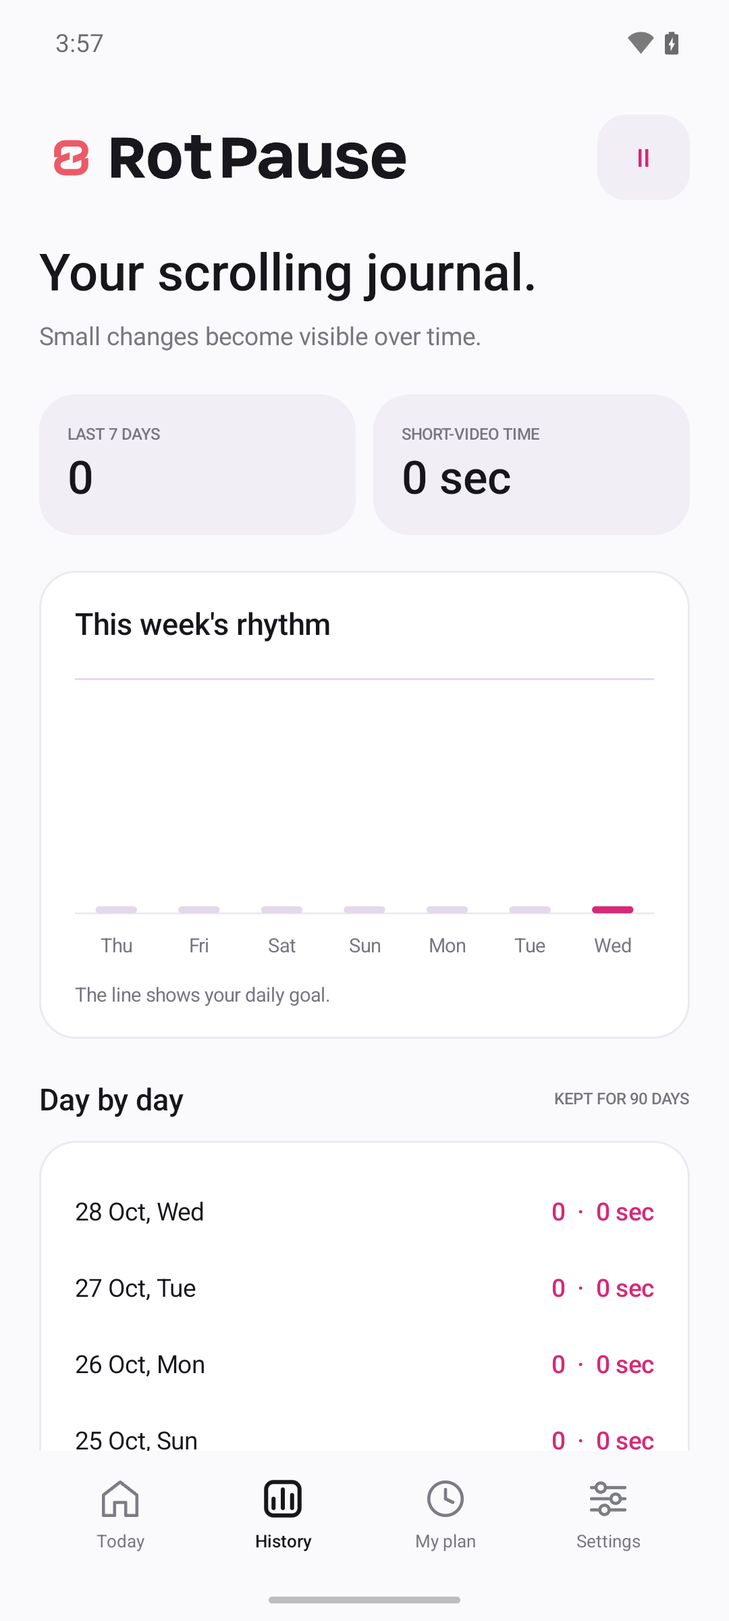
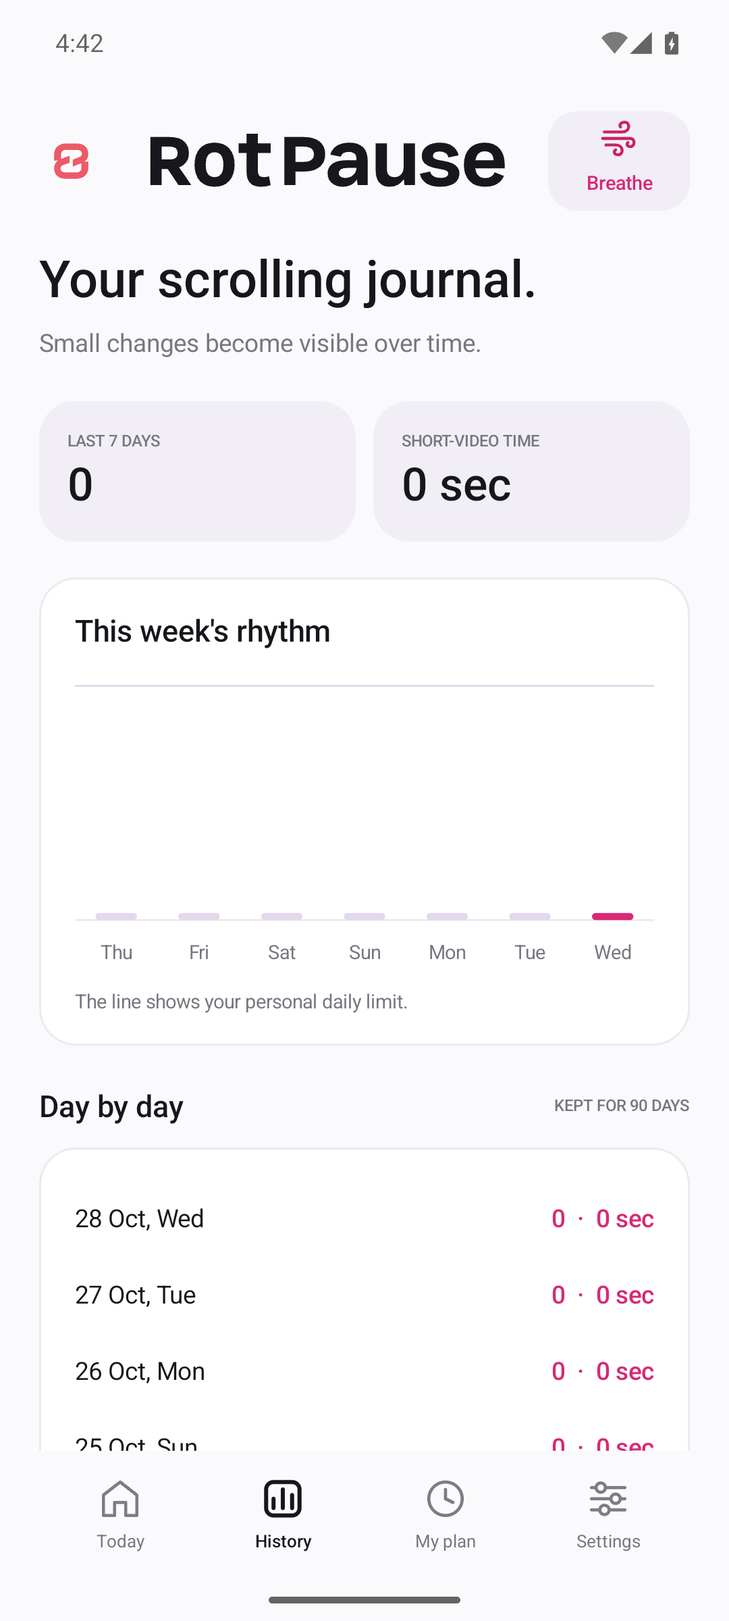
Clarify RotPause counting, watch privacy and breathing safety

diff --git a/rotpause/index.html b/rotpause/index.html
@@ -2,14 +2,14 @@
 <html lang="en">
 <head><meta charset="utf-8"><meta name="viewport" content="width=device-width,initial-scale=1">
 <title>RotPause — Catch the scroll. Pause the rot.</title>
-<meta name="description" content="An on-device Android short-video counter with gentle prompts, daily goals and room to breathe. RotPause is currently a release preview.">
+<meta name="description" content="An on-device Android short-video counter with gentle prompts, personal daily limits and room to breathe. RotPause is currently a release preview.">
 <meta name="theme-color" content="#fafafc">
 <style>
 :root{color-scheme:light;--ink:#16161b;--muted:#61616c;--pink:#d62976;--pale:#f1eef6}*{box-sizing:border-box}body{margin:0;background:#fafafc;color:var(--ink);font:17px/1.65 system-ui,sans-serif}a{color:#a5195d;text-underline-offset:4px}a:focus-visible{outline:3px solid #4f5bd5;outline-offset:5px}nav,main,footer{max-width:1160px;margin:auto;padding:24px}nav{display:flex;align-items:center;justify-content:space-between;gap:20px}.brand img{display:block;width:188px;height:auto}.brand{font-size:30px;font-weight:800;letter-spacing:-1.5px;text-decoration:none;color:var(--ink)}nav .links{display:flex;gap:24px;font-size:14px}.hero{display:grid;grid-template-columns:1.2fr 1fr;align-items:center;gap:64px;padding:44px 0 70px}.eyebrow{font-size:12px;letter-spacing:2px;text-transform:uppercase;font-weight:700;color:#9a2460}.icon{width:70px;height:70px;border-radius:18px}h1{font-size:clamp(48px,6vw,80px);letter-spacing:-.065em;line-height:1.02;margin:22px 0}h2{font-size:32px;line-height:1.15;letter-spacing:-.035em}h3{font-size:21px;line-height:1.25}.lead{font-size:21px;color:var(--muted);max-width:530px}.pill{display:inline-block;background:var(--pale);border-radius:30px;padding:9px 15px;font-size:13px;font-weight:650}.hero .note{font-size:14px;max-width:480px;color:var(--muted)}.phone{width:100%;height:auto;max-width:320px;border:9px solid #16161b;border-radius:40px;display:block;margin:auto;box-shadow:0 24px 70px #4f2b6c20}.scene{padding:24px;background:linear-gradient(135deg,#fa7e1e14,#d629761b,#4f5bd51b);border-radius:48px}.grid{display:grid;grid-template-columns:repeat(3,1fr);gap:18px}.card{background:white;border:1px solid #e6e4eb;border-radius:24px;padding:26px}.card p{font-size:16px;color:var(--muted)}.line{height:5px;width:44px;border-radius:5px;background:linear-gradient(90deg,#fa7e1e,#d62976,#4f5bd5)}section{padding:35px 0}.plain{max-width:810px}.plain p{color:var(--muted)}details{border-bottom:1px solid #dedde5;padding:20px 0}summary{font-weight:650;cursor:pointer}details p{font-size:16px}footer{border-top:1px solid #e1dfe8;margin-top:30px;padding-top:28px;padding-bottom:40px;font-size:14px;color:var(--muted)}footer a{margin-right:18px}footer p{margin:12px 0}@media(max-width:760px){nav .links{gap:14px}.hero{grid-template-columns:1fr;gap:30px;padding-top:28px}.grid{grid-template-columns:1fr}.scene{max-width:380px;width:100%;margin:auto}h1{font-size:56px}.lead{font-size:19px}nav,main,footer{padding-left:22px;padding-right:22px}}
 </style></head>
 <body><nav aria-label="Main"><a class="brand" href="./"><img src="lockup.svg" width="188" height="35" alt="RotPause"></a><div class="links"><a href="support/">Support</a><a href="privacy/">Privacy</a></div></nav>
-<main><div class="hero"><div><img class="icon" src="icon.png" alt="RotPause interrupted-loop icon" width="70" height="70"><p class="eyebrow">A little more life.</p><h1>Catch the scroll.<br>Pause the rot.</h1><p class="lead">Notice how many short videos pass by. Set your own rhythm, take a breath, and leave a little room for life beyond the screen.</p><span class="pill">Android · Release preview</span><p class="note">Planned price: US$1, paid once. No ads, subscriptions or in-app purchases. RotPause has not launched on Google Play yet; final local prices will appear in the store.</p><p><a href="support/">Get help with the preview →</a></p></div><div class="scene"><img class="phone" src="today.png" alt="Actual RotPause Today screen showing the daily short-video goal and optional counter setup" width="1080" height="2340"></div></div>
-<section aria-labelledby="features"><p class="eyebrow">Small signals. Your choices.</p><h2 id="features">A calmer way to notice.</h2><div class="grid"><article class="card"><div class="line"></div><h3>See your rhythm.</h3><p>Videos count after 0.75 seconds of stable detected visibility, with rapid skips excluded. Daily totals and a seven-day view help you see the pattern.</p></article><article class="card"><div class="line"></div><h3>Choose your pause.</h3><p>Set a daily goal. Use an optional live counter, dismissible prompts or a two-minute breathing break.</p></article><article class="card"><div class="line"></div><h3>Keep it close.</h3><p>Usage history and settings stay on your device. The Android app requests no internet permission.</p></article></div></section>
-<section class="plain" aria-labelledby="compat"><h2 id="compat">Built around short-video screens.</h2><p>The current candidate includes adapters for Instagram Reels, YouTube Shorts, Facebook Reels and Snapchat Spotlight. Compatibility with current real app versions is still being validated. TikTok and fullscreen X video detection are experimental and switched off by default. X text timelines are not intended to count.</p><p>Counts are estimates based on detectable screens and transitions, rather than official platform view statistics. Third-party layout changes can affect results. Android 8 or later is required; not every Android version or device has been tested.</p></section>
-<section class="plain" aria-labelledby="faq"><h2 id="faq">A few things to know.</h2><details><summary>Why does it ask for accessibility permission?</summary><p>With your separate, optional consent and Android permission, RotPause detects supported short-video screens and scroll events. It temporarily processes interface identifiers and selected navigation labels. It does not record messages, passwords, videos, audio or screenshots. You can explore the app without enabling the service.</p></details><details><summary>Can I pause it or remove my data?</summary><p>Yes. Pause counting, change tracked apps, withdraw consent or disable the Android service. Settings lets you export history, settings and consent metadata, or delete counting history. Uninstalling removes local app data. Copies you export are managed separately by you.</p></details><details><summary>How long is history kept?</summary><p>History older than 90 calendar days is removed when RotPause next runs or records activity. It is not deleted by a background timer while the app is dormant. Settings and the latest consent choice remain until app data is cleared or the app is uninstalled.</p></details><details><summary>Is it a health or treatment app?</summary><p>No medical advice, diagnosis or treatment is provided. “Brain rot” is a playful description of scrolling habits, not a medical score or a claim about brain damage.</p></details><details><summary>Can I buy it now?</summary><p>Not yet. This page describes a release preview. There is no live Google Play listing or purchase link. The planned purchase is a one-time US$1 base price, subject to the store's local pricing and taxes.</p></details></section></main>
-<footer><a class="brand" href="./"><img src="lockup.svg" width="188" height="35" alt="RotPause"></a><p>Made by OFCode · <a href="mailto:contact@ofcodedev.me">contact@ofcodedev.me</a></p><p><a href="privacy/">Privacy</a><a href="support/">Support</a><a href="refunds/">Purchases & refunds</a><a href="https://ofcodedev.me/">OFCode Dev</a></p><p>Independent product. Not affiliated with or endorsed by Instagram, Meta, YouTube, Google, Snapchat, TikTok or X.</p></footer></body></html>
+<main><div class="hero"><div><img class="icon" src="icon.png" alt="RotPause interrupted-loop icon" width="70" height="70"><p class="eyebrow">A little more life.</p><h1>See the scroll.<br>Choose your pause.</h1><p class="lead">Notice how many short videos pass by. Set your own rhythm, take a breath, and leave a little room for life beyond the screen.</p><span class="pill">Android · Release preview</span><p class="note">Planned price: US$1, paid once. No ads, subscriptions or in-app purchases. RotPause has not launched on Google Play yet; final local prices will appear in the store.</p><p><a href="support/">Get help with the preview →</a></p></div><div class="scene"><img class="phone" src="today.png" alt="Actual RotPause Today screen showing the personal daily limit and optional counter setup" width="1080" height="2340"></div></div>
+<section aria-labelledby="features"><p class="eyebrow">Small signals. Your choices.</p><h2 id="features">A calmer way to notice.</h2><div class="grid"><article class="card"><div class="line"></div><h3>See your rhythm.</h3><p>Videos qualify after 0.75 seconds of stable detected visibility. Detected quick skips appear separately and never use your daily limit. Counts are estimates, not platform view statistics.</p></article><article class="card"><div class="line"></div><h3>Choose your pause.</h3><p>Set a personal daily limit. Use an optional live counter or dismissible prompts. An optional 1:22 breathing timer includes safety information and a Stop control.</p></article><article class="card"><div class="line"></div><h3>Keep it close.</h3><p>History stays local by default. Optional Wear OS sync shares only a daily summary with your paired watch through Google Play services, which may use encrypted cloud relay.</p></article></div></section>
+<section class="plain" aria-labelledby="before-buy"><h2 id="before-buy">Know what you are choosing.</h2><p>Counting needs your separate consent and Android Accessibility Service permission. You can explore the app first, pause it at any time and leave every prompt. There are no streaks, penalties or scores about your brain.</p><p>The candidate supports English, Spanish, French, Simplified Chinese and Arabic, including right-to-left layout. Translation and device checks are in progress; independent native-language review is not yet complete.</p><p>The Wear OS companion includes a daily counter, a Tile and a watch-face complication. It requires a paired Android phone and a matching signed RotPause installation. Real paired-device transport validation is pending. The phone breathing timer is not a watch feature.</p><p><a href="how-counting-works/">How counting works &amp; known limits →</a> · <a href="breathing-safety/">Breathing safety →</a></p></section><section class="plain" aria-labelledby="compat"><h2 id="compat">Built around short-video screens.</h2><p>The current candidate includes adapters for Instagram Reels, YouTube Shorts, Facebook Reels and Snapchat Spotlight. Compatibility with current real app versions is still being validated. TikTok and fullscreen X video detection are experimental and switched off by default. X text timelines are not intended to count.</p><p>Counts are estimates based on detectable screens and transitions, rather than official platform view statistics. Third-party layout changes can affect results. Android 8 or later is required; not every Android version or device has been tested.</p></section>
+<section class="plain" aria-labelledby="faq"><h2 id="faq">A few things to know.</h2><details><summary>Why does it ask for accessibility permission?</summary><p>With your separate, optional consent and Android permission, RotPause detects supported short-video screens and scroll events. It temporarily processes interface identifiers and selected navigation labels. It does not record messages, passwords, videos, audio or screenshots. You can explore the app without enabling the service.</p></details><details><summary>Can I pause it or remove my data?</summary><p>Yes. Pause counting, change tracked apps, withdraw consent or disable the Android service. Settings lets you export history, settings and consent metadata, or delete counting history. Uninstalling removes that installation’s local app data. Optional watch sync has a separate off-and-clear control; a disconnected watch may retain its latest summary until it reconnects or you clear its app data. Copies you export are managed separately by you.</p></details><details><summary>How long is history kept?</summary><p>History older than 90 calendar days is removed when RotPause next runs or records activity. It is not deleted by a background timer while the app is dormant. Settings and the latest consent choice remain until app data is cleared or the app is uninstalled.</p></details><details><summary>Is it a health or treatment app?</summary><p>The optional breathing timer provides no medical advice, diagnosis or treatment. Read the <a href="breathing-safety/">safety information</a> before using it. “Brain rot” is a playful description of scrolling habits, not a medical score or a claim about brain damage.</p></details><details><summary>Can I buy it now?</summary><p>Not yet. This page describes a release preview. There is no live Google Play listing or purchase link. The planned purchase is a one-time US$1 base price, subject to the store's local pricing and taxes.</p></details></section></main>
+<footer><a class="brand" href="./"><img src="lockup.svg" width="188" height="35" alt="RotPause"></a><p>Made by OFCode · <a href="mailto:contact@ofcodedev.me">contact@ofcodedev.me</a></p><p><a href="privacy/">Privacy</a><a href="support/">Support</a><a href="refunds/">Purchases & refunds</a><a href="how-counting-works/">Known limits</a><a href="breathing-safety/">Breathing safety</a><a href="https://ofcodedev.me/">OFCode Dev</a></p><p>Independent product. Not affiliated with or endorsed by Instagram, Meta, YouTube, Google, Snapchat, TikTok or X.</p></footer></body></html>

diff --git a/rotpause/privacy/index.html b/rotpause/privacy/index.html
@@ -1,14 +1,14 @@
 <!doctype html>
 <html lang="en"><meta charset="utf-8"><meta name="viewport" content="width=device-width,initial-scale=1"><title>RotPause Privacy Policy · OFCode</title>
 <style>body{margin:0;background:#fafafc;color:#16161b;font:17px/1.7 system-ui,sans-serif}main{max-width:760px;margin:auto;padding:56px 24px 90px}a{color:#d62976}h1{font-size:42px;line-height:1.15;letter-spacing:-.04em}h2{font-size:22px;margin-top:35px}.label{color:#777780;font-size:13px;letter-spacing:.1em}.brand{font-size:30px;font-weight:700;text-decoration:none}footer{border-top:1px solid #eaeaf0;margin-top:40px;padding-top:20px;font-size:14px}</style>
-<main><a class="brand" href="../"><img src="../lockup.svg" width="188" height="35" style="height:auto" alt="RotPause"></a><p class="label">PRIVACY POLICY · UPDATED 28 OCTOBER 2026 · APP 1.0.3</p><h1>Your scrolling data<br>stays with you.</h1>
+<main><a class="brand" href="../"><img src="../lockup.svg" width="188" height="35" style="height:auto" alt="RotPause"></a><p class="label">PRIVACY POLICY · UPDATED 28 OCTOBER 2026 · APP 1.0.5</p><h1>Your history stays<br>local by default.</h1>
 <p>RotPause is an Android short-video counter developed by OFCode. This policy explains the information processed by the app. Contact us at <a href="mailto:contact@ofcodedev.me">contact@ofcodedev.me</a>.</p>
 <h2>Information processed on your device</h2><p>When you explicitly consent and enable its Android Accessibility Service, RotPause detects supported short-video screens and scrolling in the Instagram, YouTube, Facebook, Snapchat, TikTok and X apps you choose. It transiently processes interface resource identifiers and selected navigation-control labels to identify those screens. It does not record messages, passwords, video content, audio or screenshots.</p>
-<p>From version 1.0.1, RotPause stores the date, app category, detected short-video count and precise duration locally in its app storage. It also stores settings and your latest accessibility-consent choice, notice version and UTC grant or withdrawal timestamps. The unused hourly totals from the earlier preview are removed on upgrade to 1.0.1; new hourly history is not recorded. TikTok and fullscreen X detection are experimental and off by default. Current real-app compatibility validation is incomplete.</p>
-<h2>No remote collection or sharing</h2><p>RotPause has no internet permission, accounts, advertising, subscriptions, analytics SDKs or remote servers. The app does not transmit your accessibility information or local records to OFCode or third parties. We do not sell your data. If you explicitly choose Export, Android lets you select the destination application. The export contains daily history, settings and consent metadata; that destination's own privacy practices apply to what you share.</p>
+<p>From version 1.0.1, RotPause stores the date, app category, qualified short-video count, separate detected quick-skip count and precise duration locally in its app storage. It also stores settings and your latest accessibility-consent choice, notice version and UTC grant or withdrawal timestamps. The app also keeps its latest local-day breathing allowance (day, number of starts and reserved duration) so that daily limits survive a restart. A start reserves a 1:22 session, including an early stop. This allowance is replaced when a session starts on a different local day, or removed when app data is cleared/uninstalled; deleting video history keeps the allowance. It is included in the full local-data export, but not in support diagnostics. The unused hourly totals from the earlier preview are removed on upgrade to 1.0.1; new hourly history is not recorded. TikTok and fullscreen X detection are experimental and off by default. Current real-app compatibility validation is incomplete.</p>
+<h2>Optional paired-watch transfer</h2><p>Wear OS synchronization is off by default and has a separate explanation and choice in Settings. If enabled, RotPause sends the date, today’s qualified total, personal daily limit and update time, with protocol version and enabled flag, to your paired watch using Google Play services. Per-app history, quick skips, breathing allowance, accessibility identifiers and screen contents are not included. Google’s Data Layer can use Bluetooth or Google servers as a relay; Google documents end-to-end encryption for cloud relay. See the <a href="https://developer.android.com/training/wearables/data/overview">official Data Layer description</a>.</p><p>The watch stores only its latest received summary in private app storage. Older dates or updates more than 15 minutes old are labelled cached/stale; no data is shown as a waiting state, not a real zero. Turning sync off queues a clearing update. A disconnected watch may retain its summary until it reconnects and receives that update. Uninstalling only the phone app does not erase a watch installation; clear or uninstall each separately when needed.</p><h2>No advertising or publisher telemetry</h2><p>RotPause has no accounts, advertising, subscriptions, analytics SDKs or publisher usage backend. Both app manifests request no internet permission; optional watch transfer nevertheless uses Google Play services and may leave the phone through its transport. OFCode does not receive this daily summary through an app backend. We do not sell your data. If you explicitly choose Export, Android lets you select the destination application. The export contains daily history, settings and consent metadata; that destination's own privacy practices apply to what you share.</p>
 <h2>Accessibility permission and your control</h2><p>The Accessibility Service is used only for the disclosed counter functionality, optional live-counter overlays and optional dismissible break prompts. RotPause is not a disability support tool. It performs a navigation action only if you tap the Leave short videos button.</p><p>You can explore the app without granting accessibility permission. Pause counting, turn overlays or reminders off, select which supported apps to track, or withdraw consent in RotPause Settings. You can also disable the service in Android Accessibility settings or uninstall RotPause at any time.</p>
-<h2>Retention, export and deletion</h2><p>History older than 90 calendar days is removed when RotPause next runs or records activity. No background timer cleans dormant app storage. You can remove all counting history in RotPause Settings; settings and the latest consent choice remain. Withdrawing consent stops counting without deleting past records. Settings and consent metadata remain until Android app data is cleared or RotPause is uninstalled. System cloud backup and device transfer of RotPause's app data are disabled in the app configuration. Uninstalling the app removes its local app data. Any copy you choose to export is under your control and is not deleted by RotPause.</p>
-<h2>Storage safeguards</h2><p>Android app storage protections apply. RotPause does not add database encryption. SQLite secure deletion is enabled in 1.0.1, but neither logical deletion nor uninstall is a guarantee of forensic erasure from flash storage or copies outside the app. Keep your device locked and up to date.</p><h2>Support messages and this website</h2><p>Get support can prepare an optional local diagnostic report containing the app/Android version, device manufacturer/model, permission and counter settings, selected adapters and up to 30 recent technical events from the current app process. These events remain in memory and are cleared when that process ends; they contain event/error class names, not exception messages, stack traces or screen content. The report excludes viewing history/counts, screenshots, messages, device identifiers, IP addresses and account details. You review the report before copying it or opening an email draft. RotPause does not send it automatically. If you choose to email us, we receive the address and information you put in your message, including any diagnostic report you send. Send only what is needed to explain the issue; do not send passwords, private messages or account credentials. The RotPause website pages contain no forms, advertising, analytics scripts, remote fonts or application-set cookies. The website is hosted using GitHub Pages; its provider may process request metadata such as IP address and browser information to serve and secure pages, under its <a href="https://docs.github.com/en/site-policy/privacy-policies/github-general-privacy-statement">own privacy statement</a>. Support email and hosting are separate from the offline Android app. Support-message retention and the final publisher legal disclosures are still being finalized for this unreleased preview.</p>
+<h2>Retention, export and deletion</h2><p>History older than 90 calendar days is removed when RotPause next runs or records activity. No background timer cleans dormant app storage. You can remove all counting history in RotPause Settings; settings and the latest consent choice remain. Withdrawing consent stops counting without deleting past records. Settings and consent metadata remain until Android app data is cleared or RotPause is uninstalled. System cloud backup and device transfer of RotPause's app data are disabled in both app configurations. The latest safety-information acknowledgment and selected language are also kept as settings until app data is cleared/uninstalled. Optional watch cache and transport are described above. Uninstalling the app removes its local app data. Any copy you choose to export is under your control and is not deleted by RotPause.</p>
+<h2>Storage safeguards</h2><p>Android app storage protections apply. RotPause does not add database encryption. SQLite secure deletion is enabled in 1.0.1, but neither logical deletion nor uninstall is a guarantee of forensic erasure from flash storage or copies outside the app. Keep your device locked and up to date.</p><h2>Support messages and this website</h2><p>Get support can prepare an optional local diagnostic report containing the app/Android version, device manufacturer/model, permission and counter settings, selected adapters and up to 30 recent technical events from the current app process. These events remain in memory and are cleared when that process ends; they contain event/error class names, not exception messages, stack traces or screen content. The report excludes viewing history/counts, screenshots, messages, device identifiers, IP addresses and account details. You review the report before copying it or opening an email draft. RotPause does not send it automatically. If you choose to email us, we receive the address and information you put in your message, including any diagnostic report you send. Send only what is needed to explain the issue; do not send passwords, private messages or account credentials. The RotPause website pages contain no forms, advertising, analytics scripts, remote fonts or application-set cookies. The website is hosted using GitHub Pages; its provider may process request metadata such as IP address and browser information to serve and secure pages, under its <a href="https://docs.github.com/en/site-policy/privacy-policies/github-general-privacy-statement">own privacy statement</a>. Support email and hosting are separate from the app’s default local counting. Support-message handling, provider arrangements and final publisher legal disclosures are still being finalized for this unreleased preview.</p>
 <h2>Privacy requests</h2><p>Contact <a href="mailto:contact@ofcodedev.me?subject=RotPause%20privacy%20request">contact@ofcodedev.me</a> to ask about information held by the publisher, request access, correction or deletion, or raise an objection or other right available under applicable law. Do not send private app history to prove your identity. We do not remotely hold or retrieve your local app database; use the local export, deletion and permission controls for that data. Support correspondence and purchase records, if any, are separate. Depending on applicable law, you may also complain to your competent data protection authority.</p><h2>Preview status</h2><p>RotPause has not been publicly released through Google Play. The publisher legal identity, launch regions and activity-specific legal grounds and vendor arrangements must be finalized before a commercial launch. This page is a factual explanation of the preview, not a GDPR or KVKK compliance certification.</p><h2>Children and wellbeing</h2><p>RotPause is not designed specifically for children and does not knowingly collect children's information. Counts are estimates dependent on third-party app versions and layouts, rather than official video-view data. RotPause does not provide medical advice, diagnosis or treatment.</p>
 <h2>Policy changes</h2><p>We will update this page and the in-app policy if the app's data practices change. Any new use requiring consent will be presented before it is enabled.</p>
 <footer><a href="../">RotPause</a> · <a href="../support/">Support</a> · OFCode · <a href="mailto:contact@ofcodedev.me">contact@ofcodedev.me</a> · <a href="https://ofcodedev.me/">OFCode Dev</a></footer></main></html>

diff --git a/rotpause/support/index.html b/rotpause/support/index.html
@@ -1,1 +1,1 @@
-<!doctype html><html lang="en"><meta charset="utf-8"><meta name="viewport" content="width=device-width,initial-scale=1"><title>RotPause Support · OFCode</title><style>body{background:#fafafc;color:#16161b;font:17px/1.7 system-ui;margin:0}main{max-width:760px;margin:auto;padding:64px 24px}h1{font-size:42px;letter-spacing:-.04em}a{color:#d62976}h2{margin-top:35px}</style><main><h1>A little help with RotPause.</h1><p>Contact <a href="mailto:contact@ofcodedev.me?subject=RotPause%20support">contact@ofcodedev.me</a> for support. Include your Android version, RotPause version and the supported app/version involved. Do not send passwords, messages or account credentials.</p><h2>Include a diagnostic report</h2><p>In Settings, tap Get support. Review the optional report, then choose Open email to include it in the message body, or Copy report. It contains device/app versions, permissions, adapter settings and recent technical events from this app process. It excludes viewing history, screenshots, messages and account details. You send the email yourself; nothing is sent automatically.</p><h2>The counter is not increasing</h2><p>Check that you have consented, enabled RotPause in Android Accessibility settings, left counting switched on and enabled the app in My plan. Open a supported short-video screen and remain on the video for at least 0.75 seconds. Rapid skips are intentionally excluded. Detection depends on the other app's version and interface; normal feeds and comments are not intended to count.</p><h2>Pause or disable RotPause</h2><p>Use Pause counter, switch off live counters or reminders in Settings, or withdraw consent. Disable RotPause in Android Accessibility settings to turn the service off completely.</p><h2>Delete your data</h2><p>Settings → Delete all counting records removes the local history. RotPause has no online account or remote database. Uninstalling also removes local app data. Settings and the latest consent choice remain after deleting history. Export includes daily history, settings and consent metadata. Exported copies are managed by you.</p><p><a href="../">RotPause</a> · <a href="../refunds/">Purchases & refunds</a> · <a href="../privacy/">Privacy policy</a> · <a href="https://ofcodedev.me/">OFCode Dev</a></p></main></html>
+<!doctype html><html lang="en"><meta charset="utf-8"><meta name="viewport" content="width=device-width,initial-scale=1"><title>RotPause Support · OFCode</title><style>body{background:#fafafc;color:#16161b;font:17px/1.7 system-ui;margin:0}main{max-width:760px;margin:auto;padding:64px 24px}h1{font-size:42px;letter-spacing:-.04em}a{color:#d62976}h2{margin-top:35px}</style><main><h1>A little help with RotPause.</h1><p>Contact <a href="mailto:contact@ofcodedev.me?subject=RotPause%20support">contact@ofcodedev.me</a> for support. Include your Android version, RotPause version and the supported app/version involved. Do not send passwords, messages or account credentials.</p><h2>Include a diagnostic report</h2><p>In Settings, tap Get support. Review the optional report, then choose Open email to include it in the message body, or Copy report. It contains device/app versions, permissions, adapter settings and recent technical events from this app process. It excludes viewing history, screenshots, messages and account details. You send the email yourself; nothing is sent automatically.</p><h2>The counter is not increasing</h2><p>Check that you have consented, enabled RotPause in Android Accessibility settings, left counting switched on and enabled the app in My plan. Open a supported short-video screen and remain on the video for at least 0.75 seconds. Detected quick skips appear separately and do not increase the qualified total or daily limit. Detection depends on the other app's version and interface; normal feeds and comments are not intended to count.</p><h2>Wear OS</h2><p>Install the matching RotPause watch app and enable optional sync in the phone Settings after reading its disclosure. The watch shows the latest received daily summary; cached and waiting labels matter. Pairing, a compatible watch and Google Play services are required. A failed or disconnected sync is not evidence that your count is zero. Turning sync off requests cache clearing on reconnection. For immediate removal on an offline watch, clear that watch app’s storage or uninstall it.</p><p><a href="../how-counting-works/">Counting rules, compatibility and known limits</a> · <a href="../breathing-safety/">Breathing safety and sources</a></p><h2>Pause or disable RotPause</h2><p>Use Pause counter, switch off live counters or reminders in Settings, or withdraw consent. Disable RotPause in Android Accessibility settings to turn the service off completely.</p><h2>Breathing</h2><p>The optional 4–2–8–2 timer lasts 1:22: two seconds of preparation and five complete cycles. You can stop at any time. Each start, including an early stop, uses one of three starts per local day. This product setting is not a medical dose or proof of suitability. Read the safety information before starting.</p><h2>Delete your data</h2><p>Settings → Delete all counting records removes the local history. RotPause has no online account or publisher usage database. Uninstalling removes that installation’s local app data. Clear the watch installation separately if needed. Settings and the latest consent choice remain after deleting history. Export includes daily history, settings and consent metadata. Exported copies are managed by you.</p><p>This preview has no guaranteed response time. Mailbox delivery and the staffed support workflow still require operational verification before launch.</p><p><a href="../">RotPause</a> · <a href="../refunds/">Purchases & refunds</a> · <a href="../privacy/">Privacy policy</a> · <a href="https://ofcodedev.me/">OFCode Dev</a></p></main></html>

diff --git a/rotpause/breathing-safety/index.html b/rotpause/breathing-safety/index.html
@@ -1,0 +1,1 @@
+<!doctype html><html lang="en"><head><meta charset="utf-8"><meta name="viewport" content="width=device-width,initial-scale=1"><title>Breathing safety · RotPause</title><style>body{margin:0;background:#fafafc;color:#18171d;font:17px/1.7 system-ui,sans-serif}main{max-width:790px;margin:auto;padding:48px 24px 80px}h1{font-size:42px;line-height:1.1;letter-spacing:-.04em}h2{font-size:23px;margin-top:32px}a{color:#a5195d}aside{padding:20px;border-radius:18px;background:#fff4e8}li{margin:12px 0}footer{border-top:1px solid #dedde5;margin-top:40px;padding-top:20px}</style></head><body><main><a href="../"><img src="../lockup.svg" width="188" height="35" style="height:auto" alt="RotPause"></a><h1>Breathing safety</h1><aside>This is an optional relaxation timer. It provides no medical advice, diagnosis or treatment. The label KVRP-48 does not establish that this exact rhythm is clinically validated.</aside><h2>Stay comfortable</h2><p>Use a comfortable, supported position. Breathe gently without forcing depth, pace or a hold. Skip a hold or stop whenever you need to. Never practice while driving or operating machinery.</p><p>If you are pregnant or have a heart, lung or other significant medical condition, ask a qualified clinician before trying breath-holding exercises.</p><h2>When to stop</h2><p>Stop immediately if you feel dizzy, faint, in pain or unexpectedly short of breath, and return to normal breathing. Seek medical advice for concerning symptoms. Severe breathing difficulty or sudden or persistent chest pain needs emergency medical help through your local emergency service.</p><h2>How this timer works</h2><p>Four seconds inhale, two hold, eight exhale, two hold. Each 1:22 session includes two seconds to prepare and five complete cycles. There is no orbiting dot. Stop stays available; leaving the exercise stops it. Up to three starts per local day, including early stops. Three full sessions total 4:06. The daily allowance is a product setting, not a medical prescription, safety threshold or evidence that this routine suits you.</p><h2>Sources and limits</h2><p>The general guidance below informed the precautions. These organizations do not endorse RotPause, the KVRP-48 label, its 4–2–8–2 timing or the three-session limit.</p><ul><li><a href="https://www.nhs.uk/mental-health/self-help/guides-tools-and-activities/breathing-exercises-for-stress/">NHS: breathing exercises for stress</a> — comfortable posture and gentle, unforced breathing.</li><li><a href="https://www.bhf.org.uk/informationsupport/heart-matters-magazine/wellbeing/breathing-exercises">British Heart Foundation: breathing exercises</a> — caution for relevant medical conditions or pregnancy and stopping for symptoms.</li><li><a href="https://www.heart.org/en/healthy-living/healthy-lifestyle/stress-management">American Heart Association: stress management</a> — professional advice when heart or lung conditions may affect breathing exercises.</li><li><a href="https://www.nhs.uk/symptoms/dizziness/">NHS: dizziness</a>, <a href="https://www.nhs.uk/symptoms/chest-pain/">chest pain</a> and <a href="https://www.nhs.uk/symptoms/shortness-of-breath/">shortness of breath</a> — symptom guidance and urgent-help precautions.</li></ul><footer><a href="../">RotPause</a> · <a href="../privacy/">Privacy</a> · <a href="../support/">Support</a><p>Preview 1.0.5 · Updated 28 October 2026</p></footer></main></body></html>

diff --git a/rotpause/how-counting-works/index.html b/rotpause/how-counting-works/index.html
@@ -1,0 +1,1 @@
+<!doctype html><html lang="en"><head><meta charset="utf-8"><meta name="viewport" content="width=device-width,initial-scale=1"><title>How counting works · RotPause</title><style>body{margin:0;background:#fafafc;color:#18171d;font:17px/1.7 system-ui,sans-serif}main{max-width:790px;margin:auto;padding:48px 24px 80px}h1{font-size:42px;line-height:1.1;letter-spacing:-.04em}h2{font-size:23px;margin-top:32px}a{color:#a5195d}aside{padding:20px;border-radius:18px;background:#fff4e8}li{margin:12px 0}footer{border-top:1px solid #dedde5;margin-top:40px;padding-top:20px}</style></head><body><main><a href="../"><img src="../lockup.svg" width="188" height="35" style="height:auto" alt="RotPause"></a><h1>How counting works</h1><p>RotPause is a small awareness tool, not a score about your brain or a promise to cure scrolling. You choose your personal limit and can dismiss prompts or stop counting.</p><h2>Qualified videos and quick skips</h2><p>A detected video qualifies after at least 750 milliseconds of stable visibility. A detected candidate replaced by a confirmed video transition before then is recorded as a quick skip. Quick skips appear separately and do not increase your qualified total, daily limit use or Wear total. Exiting, pausing or losing permission alone does not invent a skip.</p><p>There is no universal industry skip duration. The 0.75-second rule is this product’s choice. It is not the view-count definition used by any social platform. Ambiguous transitions may be missed, and several events from one swipe must be coalesced to avoid duplicate counts.</p><h2>Before setup</h2><p>You can browse RotPause without access. Counting requires the optional in-app consent and a separate Android Accessibility Service permission. In My plan, select supported apps. On Today, check whether counting is not set up, active, paused or missing permission.</p><h2>Current compatibility</h2><ul><li>Adapters exist for Instagram Reels, YouTube Shorts, Facebook Reels and Snapchat Spotlight.</li><li>TikTok and X fullscreen-video adapters are experimental and off by default. Normal X text timelines are outside the intended counter.</li><li>Current real social-app versions, Android vendors and interface languages have not yet completed the compatibility matrix. Internal synthetic tests are not proof of real-platform accuracy.</li><li>Third-party layout changes, comments, overlays, system power management or ambiguous pager events can affect detection.</li></ul><h2>What is stored</h2><p>Daily per-app qualified totals, detected quick skips and duration are kept on the phone, with settings and consent metadata. Older than 90 calendar days is cleaned on the next run or recording. Export and history deletion are in Settings. Screen contents are not recorded. Optional watch sync is a separate choice and shares only a daily summary; see the <a href="../privacy/">privacy policy</a>.</p><h2>Report a mismatch</h2><p>Use Settings → Get support to review a technical report, then copy it or open your email app. Include the social-app version, Android version, which screen was involved, expected count and observed count. Private messages, credentials or browsing history are not needed. No report is sent automatically.</p><footer><a href="../">RotPause</a> · <a href="../privacy/">Privacy</a> · <a href="../support/">Support</a><p>Preview 1.0.5 · Updated 28 October 2026</p></footer></main></body></html>
